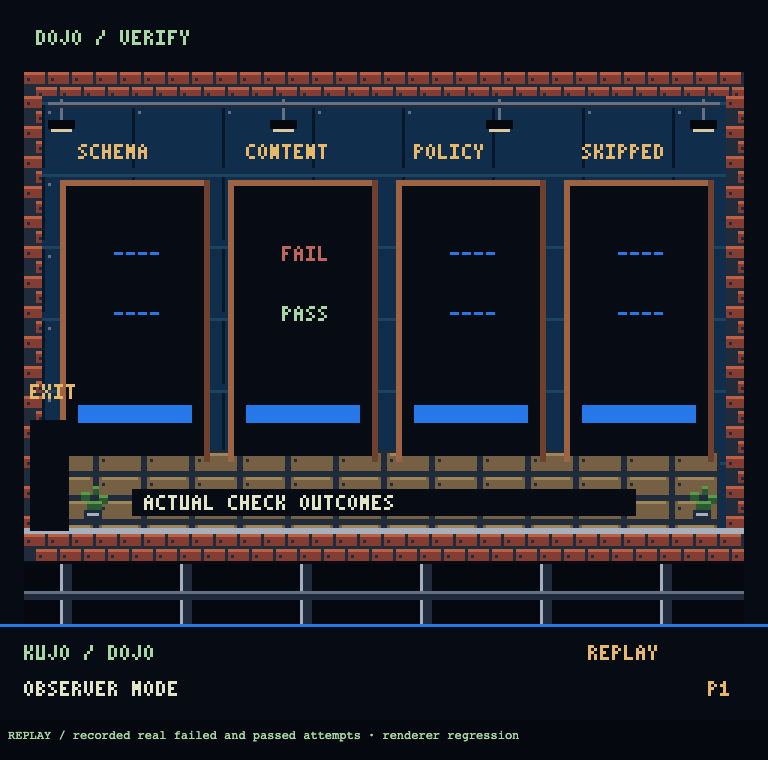
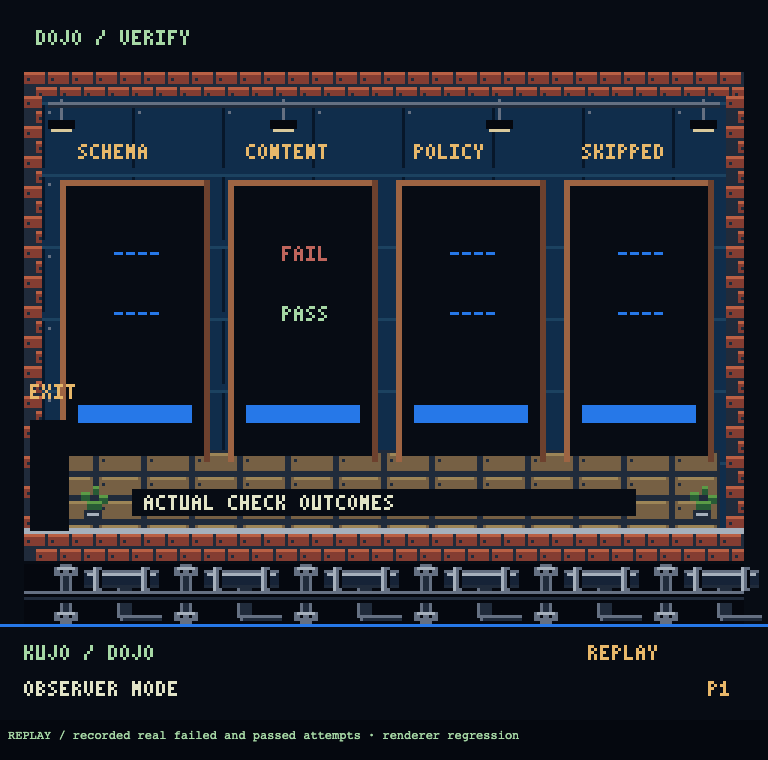
Add original industrial cutaway detail beneath interior floors

Changed region(s): [[0.0312, 0.7263, 1.0, 0.8171]]

diff --git a/packages/renderer-pixi/scenery.ts b/packages/renderer-pixi/scenery.ts
@@ -429,12 +429,37 @@ export function roomFloor(g: Graphics) {
   masonry(g, 8, 178, 240, 9, true);
   rect(g, 8, 176, 240, 2, P.light);
   rect(g, 8, 188, 240, 20, P.ink);
-  for (let x = 20; x < 244; x += 40) {
-    rect(g, x, 188, 4, 20, P.mortar);
-    rect(g, x, 188, 1, 20, P.light);
+  // Cutaway service void: shaded ducts, pipe collars and bolted steel supports.
+  // These stay below the authored walking floor and carry no operation state.
+  for (let x = 28; x < 236; x += 40) {
+    rect(g, x, 190, 25, 6, 0x162337);
+    rect(g, x, 190, 25, 1, P.stone);
+    rect(g, x + 1, 191, 23, 1, P.light);
+    rect(g, x, 195, 25, 1, P.mortar);
+    for (const dx of [3, 19]) {
+      rect(g, x + dx, 189, 3, 8, P.stone);
+      rect(g, x + dx, 189, 1, 8, P.light);
+      rect(g, x + dx + 2, 190, 1, 6, P.ink);
+    }
+    rect(g, x + 11, 196, 5, 10, P.mortar);
+    rect(g, x + 11, 196, 1, 10, P.stone);
+    rect(g, x + 12, 205, 14, 2, P.stone);
+    rect(g, x + 13, 206, 13, 1, P.mortar);
   }
-  rect(g, 8, 197, 240, 3, P.mortar);
+  for (let x = 20; x < 244; x += 40) {
+    rect(g, x - 1, 188, 6, 20, P.ink);
+    rect(g, x, 188, 4, 20, P.stone);
+    rect(g, x + 1, 189, 2, 18, P.mortar);
+    for (const y of [189, 204]) {
+      rect(g, x - 2, y, 8, 3, P.stone);
+      rect(g, x - 1, y, 6, 1, P.light);
+      rect(g, x, y + 1, 1, 1, P.ink);
+      rect(g, x + 3, y + 1, 1, 1, P.ink);
+    }
+  }
+  rect(g, 8, 197, 240, 4, P.ink);
   rect(g, 8, 197, 240, 1, P.stone);
+  rect(g, 8, 199, 240, 1, P.mortar);
 }
 
 export function mezzanine(g: Graphics) {

diff --git a/evidence/cityscape/cutaway-review.md b/evidence/cityscape/cutaway-review.md
@@ -1,0 +1,17 @@
+# Interior cutaway artwork
+
+Added original shaded pipe runs, collars, branches and bolted steel supports to
+the service void beneath all six interior walking floors. This follows the
+industrial cutaway detail in the supplied building/interior references, replacing
+the previous sparse lines below the floor. The scenery is static and carries no
+runtime meaning. No map, portal, station, path, identity or replay pin changed.
+
+Typecheck and `npx tsx scripts/cityscape-proof.ts` passed. The refreshed six room
+screenshots and `proof.json` retain real failed/pass Dojo glyphs (34/32 pixels),
+freshness changes, open Library/Workshop ladders and unchanged serialized truth
+across scenes, with no browser errors. The Library screenshot was visually
+inspected after rendering.
+
+This is an incremental original-art improvement, not a claim that the current
+game matches the reference pack in detail or that visual fidelity is approved.
+The diagnostic replays retained real results; no new source execution occurred.
